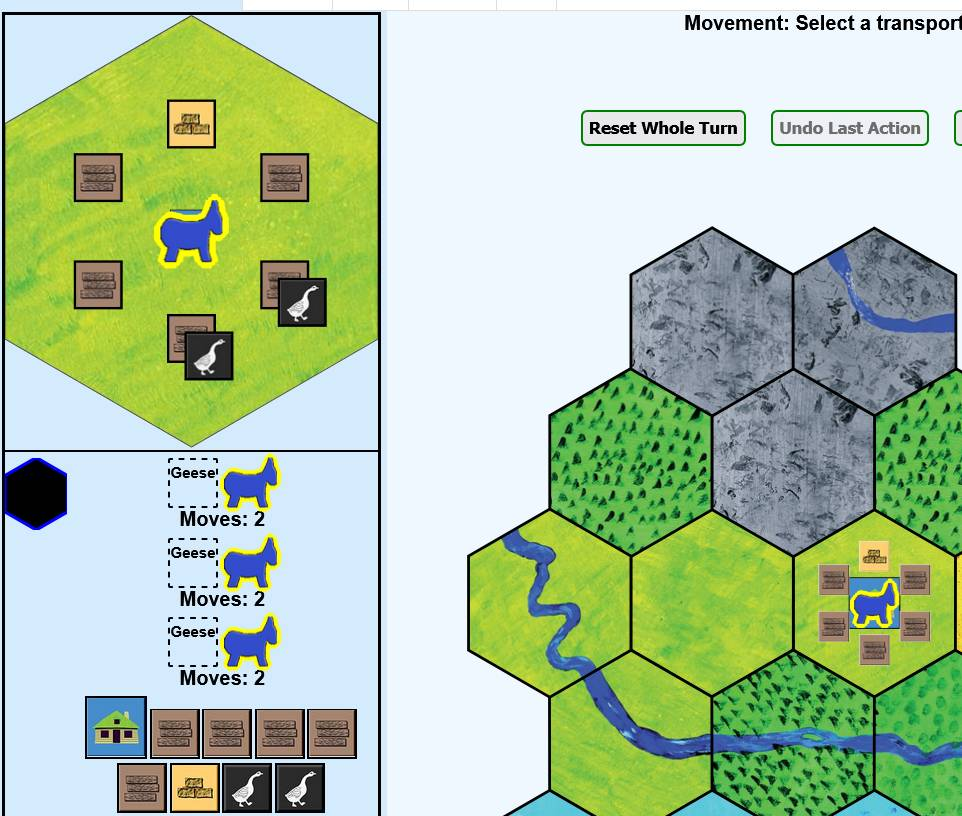
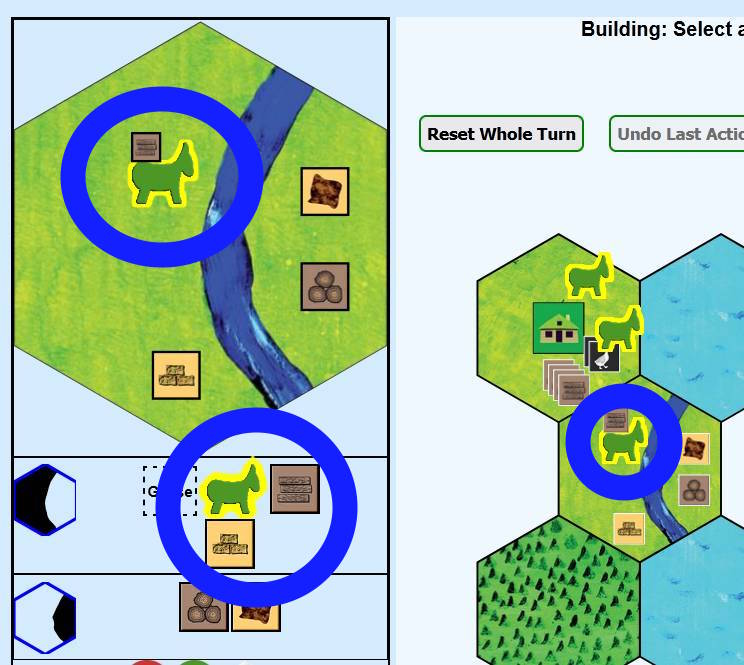
rnb help

diff --git a/RNB/templates/RNB/RNBhelp.html b/RNB/templates/RNB/RNBhelp.html
@@ -28,13 +28,11 @@
         <b><u>{% translate "Playing the Game" %}</u></b>
       </h3>
       {% blocktranslate trimmed %}
-        Roads & Boats has a lot of complex interactions with the goods and transporters.
-        For example, you may wish to pick up a good and ferry it, in order to drop it on one side of a river or another.
-        If your raft is full, but you wanted to ferry a good to the other side of the river,
-        then you could deposit a good, pick up the good you wish to ferry, drop it, and then pick up the original good.
-        To remove the need for lots of pointless and tedious interactions, certain shortcuts have been added to smoothen the user experience.
-        In the example above, the game will allow you to select the resource you wish to ferry,
-        and immediately drop it on the other side of the river, even if the raft is full.
+        Roads & Boats has a lot of complex interactions with the goods, transporters, and buildings.
+        To remove the need for lots of pointless and tedious interactions,
+        certain shortcuts have been added to smoothen the user experience.
+        For example, the game will allow you to select a good you wish to ferry even when the
+        transporter is already full, and then allow you to immediately drop it on the other side of the river.
         Such shortcuts are given in each of the phase sections below.
       {% endblocktranslate %}
       <h3>
@@ -50,22 +48,23 @@
           <br />
           <img src="{% static 'RNB/help/transporterSelectHelp.jpg' %}"
                alt="Transporter Help"
-               width="657"
-               height="440">
+               width="496"
+               height="443">
           <br />
           {% blocktranslate trimmed %}
             You can select a transporter directly on the map.
-            You can also select it by clicking on a tile, and then clicking on the transporter in the Zoom Tile.
-            If the tile is so crowded that you still cannot select it in the Zoom Tile, then each area of the tile is listed underneath,
-            and will always display all items. So alternatively you will always be able to select an item in this Zoom Area.
+            You can also select it by clicking on a tile, and then clicking on the transporter in the Zoom Tile. If the Zoom Tile is still so crowded that you cannot select it, then each area of the tile is listed underneath, and will always display all items.
+            So alternatively you will always be able to select an item in this Zoom Area.
             <br />
             Once a transporter is selected, you can interact with goods/buildings either directly on the map,
-            or using the big tile in the Zoom Panel or the area beneath that.
+            or using the big tile in the Zoom Panel or below in the Zoom Area.
           {% endblocktranslate %}
           <br />
           <br />
           {% blocktranslate trimmed %}
             <b>Production Phase:</b>
+            Mines produce automatically before the Production Phase Conflict is resolved.
+            <br />
             Primary producers all produce automatically at the start of the phase.
             <br />
             In addition, secondary producers with no transporters present will also automatically produce, if they are able to do so.
@@ -74,11 +73,13 @@
             <br />
             You can select a transporter to pickup/drop/ferry goods, or interact with any buildings.
             <br />
-            If a tile has any of your transporters present along with a building that is able to produce, it will be also highlighted so you can activate it directly.
+            If a tile has any of your transporters present along with a building that is able to produce, it will be highlighted so you can activate it directly.
             <br />
             A building will place its output onto the tile in the same area as the building.
             <br />
             If a building is not highlighted then check the Zoom Area to find out why.
+            <br />
+            Research is carried out in the production phase. When selecting a transporter, your research options will be shown as bubbles around the transporter.
           {% endblocktranslate %}
           <br />
           <br />
@@ -91,7 +92,7 @@
                 <li>Goods on the selected transporter (if any)</li>
                 <li>Goods on any of your transporters</li>
               </ul>
-              This saves you the hassle of having to deposit every good on to the same tile area before performing your build action.
+              This saves you having to deposit every good on to the same tile area before performing your build action.
             </li>
             <li>
               For the Paper Mill and Coal Burner with 2 different possible input goods, the goods will be automatically selected for you if there is no choice to make
@@ -103,18 +104,16 @@
           {% blocktranslate trimmed %}
             <b>Movement Phase:</b> Select a transporter.
             You can then click goods to load them, or click goods on the transporter to unload them.
-            When you click a transporter, the tile areas you can move to will automatically be highlighted.
+            When you click a transporter, the tile areas you can move to will automatically highlight.
             If you are unable to move a transporter, check the Zoom Area to find the reason.
-            You will either have no moves remaining, or you will have picked up a good that has itself already moved.
+            You will either have no moves remaining, or you will have picked up a good/transporter that has itself already moved.
             <br />
             <br />
             <b>Movement Phase Shortcuts: </b>
             <ul>
-              <li>When dropping a good, if there is only 1 location to drop it, it will be automatically dropped there.</li>
+              <li>If there is only 1 valid location for dropping a good, then it will be selected automatically.</li>
               <li>
-                When dropping a good, if there is more than 1 possible location,
-                or if there is a water transporter present that could perform a ferry,
-                you will be shown all possible options for the final destination of the good.
+                If there is more than 1 possible location, or if there is a water transporter present that could perform a ferry, then you will be shown all possible options for the final destination of the good.
               </li>
               <li>
                 Similarly when picking up a good, if the good could be ferried to your location for pickup,
@@ -129,9 +128,7 @@
                 as that is the equivalent of just “undoing” the action.
               </li>
               <li>
-                Geese cannot be following any of your transporters at the end of your movement phase - they must be on a tile.
-                If any geese followers have only one possible location to be dropped, they will be dropped there automatically.
-                If any geese are following a water transporter on a sea tile, then they cannot be dropped, and you will not be able to end your turn.
+                Geese cannot be following any of your transporters at the end of your movement phase - they must be on a tile. If any geese followers have only one possible location to be dropped, they will be dropped there automatically. If any geese are following a water transporter on a sea tile, then they cannot be dropped, and you must manually choose there destination before ending your turn.
               </li>
             </ul>
           {% endblocktranslate %}
@@ -139,9 +136,7 @@
             <b>Building Phase:</b>
             Select a transporter.
             <br />
-            NOTE THAT THE AUTO-HIGHLIGHTS ON THE MAP WILL BE REMOVED SOON
-            <br />
-            If you are able to build any buildings these will be displayed above the map.
+            If you are able to build any buildings these will be displayed in the Build Panel which will appear just below that transporter.
             <br />
             If you are able to start a build wall / bridge / road, or demolish wall action, these will be shown after the available buildings.
             <br />
@@ -152,7 +147,7 @@
             <ul>
               <li>
                 If you have multiple transporters on a tile, eg a donkey and raft,
-                then all possible options for building a road/wall will be highlighted,
+                then all possible options for building a road/wall will be highlighted
                 if it could be reached by any of your transporters on that tile.
               </li>
               <li>
@@ -162,17 +157,55 @@
                   <li>Goods on the selected transporter (if any)</li>
                   <li>Goods on any of your transporters</li>
                 </ul>
-                This saves you the hassle of having to deposit every good on to the same tile area before performing your build action.
+                This saves you having to deposit every good on to the same tile area before performing your build action.
               </li>
               <li>The same resource pickup/drop/ferry shortcuts as in the Movement phase also apply here.</li>
             </ul>
           {% endblocktranslate %}
           {% blocktranslate trimmed %}
-            <b>Wonder Phase:</b> Goods on your home tile will be highlighted.
-            When you have selected enough to produce the next wonder brick, it will be automatically added to the wonder.
-            <br />
-            NOTE: I EXPECT THIS TO MOVE TO SHOWING AVAILABLE RESOURCES IN THE "ACTION" AREA FOR SELECTION THERE
+            <b>Wonder Phase:</b> Goods on your home tile will be displayed above the map. Click these goods to add them to your next brick. As soon as sufficient goods have been added, then your next brick will be added to the Wonder.
+            You may pickup/drop/ferry goods on any tile. The same resource pickup/drop/ferry shortcuts as in the Movement phase also apply here.
           {% endblocktranslate %}
+        </div>
+      </div>
+      <div class="maxWidthContainerDiv">
+        <div class="RNBhelpSection">
+          <h3>
+            <b><u>{% translate "Conflict" %}</u></b>
+          </h3>
+          {% blocktranslate trimmed %}
+            After playing any main phase, you must pre-set a conflict phase. You may select the option “Wait & See” if you wish to decide whether or not to call conflict later. As soon as any player calls conflict, then each player will make their decisions about praying and turn order.
+            If no one calls conflict then the game will move to the next main phase.
+          {% endblocktranslate %}
+          <div class="RNBhelpSection">
+            <h3>
+              <b><u>{% translate "Presetting phases" %}</u></b>
+            </h3>
+            {% static 'RNB/help/pseudoResHelp.jpg' as pseudo_img_url %}
+            {% blocktranslate trimmed %}
+              To help speed the game up, every player is allowed to perform a move in the current phase.
+              Once you have set this move, then you will have further options to set future phases.
+              If you are setting a future production phase, then mines with only 1 type of good will produce that good.
+              Where a mine has more than 1 good, a “pseudo” good
+              <img src="{{ pseudo_img_url }}"
+                   alt="Pseudo Res Help"
+                   width="25"
+                   height="25">
+              will be produced during the pre-phase.
+              This will allow you to still pick up and transport the produced good if you don't mind if it is either iron or gold.
+              When the pre-set turn is processed, this”pseudo” good will be replaced with the actual mine output.
+              If you want to know which good the mine will produce, then you can wait for the game to move to that production phase.
+            {% endblocktranslate %}
+            <br />
+            <img src="{% static 'RNB/help/prePhaseHelp.jpg' %}"
+                 alt="Transporter Help"
+                 width="504"
+                 height="317">
+            <br />
+            {% blocktranslate trimmed %}
+              Once the current player has moved, then all pre-set moves will be processed in turn order. Should any action no longer be possible, eg because another player has moved a good, then that player will be notified that they need to re-do their turn. When they enter the game, their actions will be re-done until the action that was no longer possible.
+            {% endblocktranslate %}
+          </div>
         </div>
       </div>
       <div class="maxWidthContainerDiv">
@@ -180,9 +213,12 @@
       </div>
       <div class="maxWidthContainerDiv">
         <div class="RNBhelpSection">
-          <b><u>{% translate "When can I resign?" %}</u></b>
-          <br />
-          {% translate "You can resign TBC" %}
+          <h3>
+            <b><u>{% translate "When can I resign?" %}</u></b>
+          </h3>
+          {% blocktranslate trimmed %}
+            You can resign during any of your Production turns (but not when presetting it).
+          {% endblocktranslate %}
         </div>
         <br />
         <br />
@@ -193,7 +229,8 @@
              width="400"
              height="30">
       </div>
-      {% include 'Lobby/donate/donateBanner.html' %}
-      {% include 'Lobby/common/homeButton.html' %}
+      {% include "Lobby/donate/donateBanner.html" %}
+      {% include "Lobby/common/homeButton.html" %}
     </div>
-  {% endblock body %}
+  </div>
+{% endblock body %}

diff --git a/templates/admin/base_site.html b/templates/admin/base_site.html
@@ -4,14 +4,15 @@
     <link rel="shortcut icon"
           type="image/png"
           href="{% static 'Lobby/favicons/favicon.ico' %}" />
-{% endblock %}
+{% endblock extrahead %}
 {% block title %}
     {% if subtitle %}{{ subtitle }} |{% endif %}
     {{ title }} | {{ site_title|default:_("Django site admin") }}
-{% endblock %}
+{% endblock title %}
 {% block branding %}
     <h1 id="site-name">
         <a href="{% url 'admin:index' %}">Online Board Gamers Admin</a>
     </h1>
-{% endblock %}
-{% block nav-global %}{% endblock %}
+{% endblock branding %}
+{% block nav-global %}
+{% endblock nav-global %}
